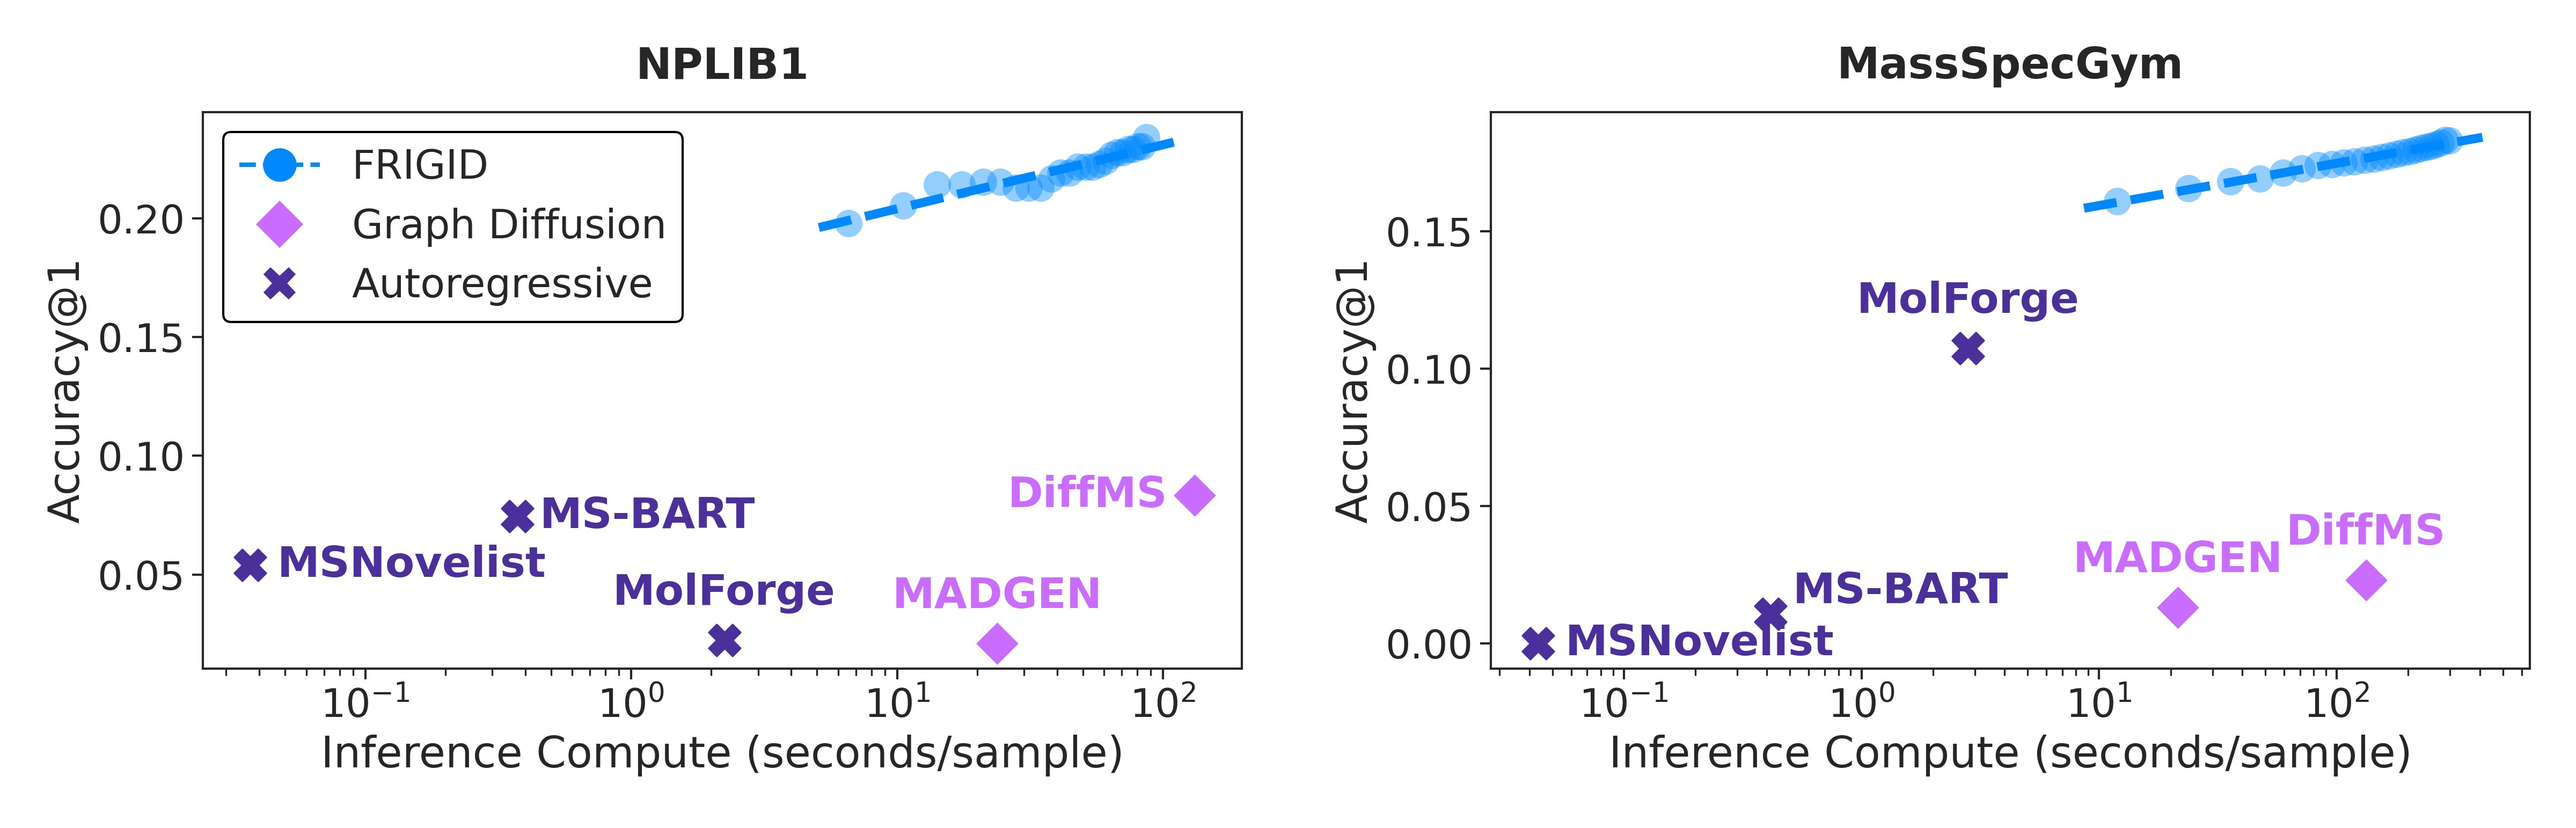
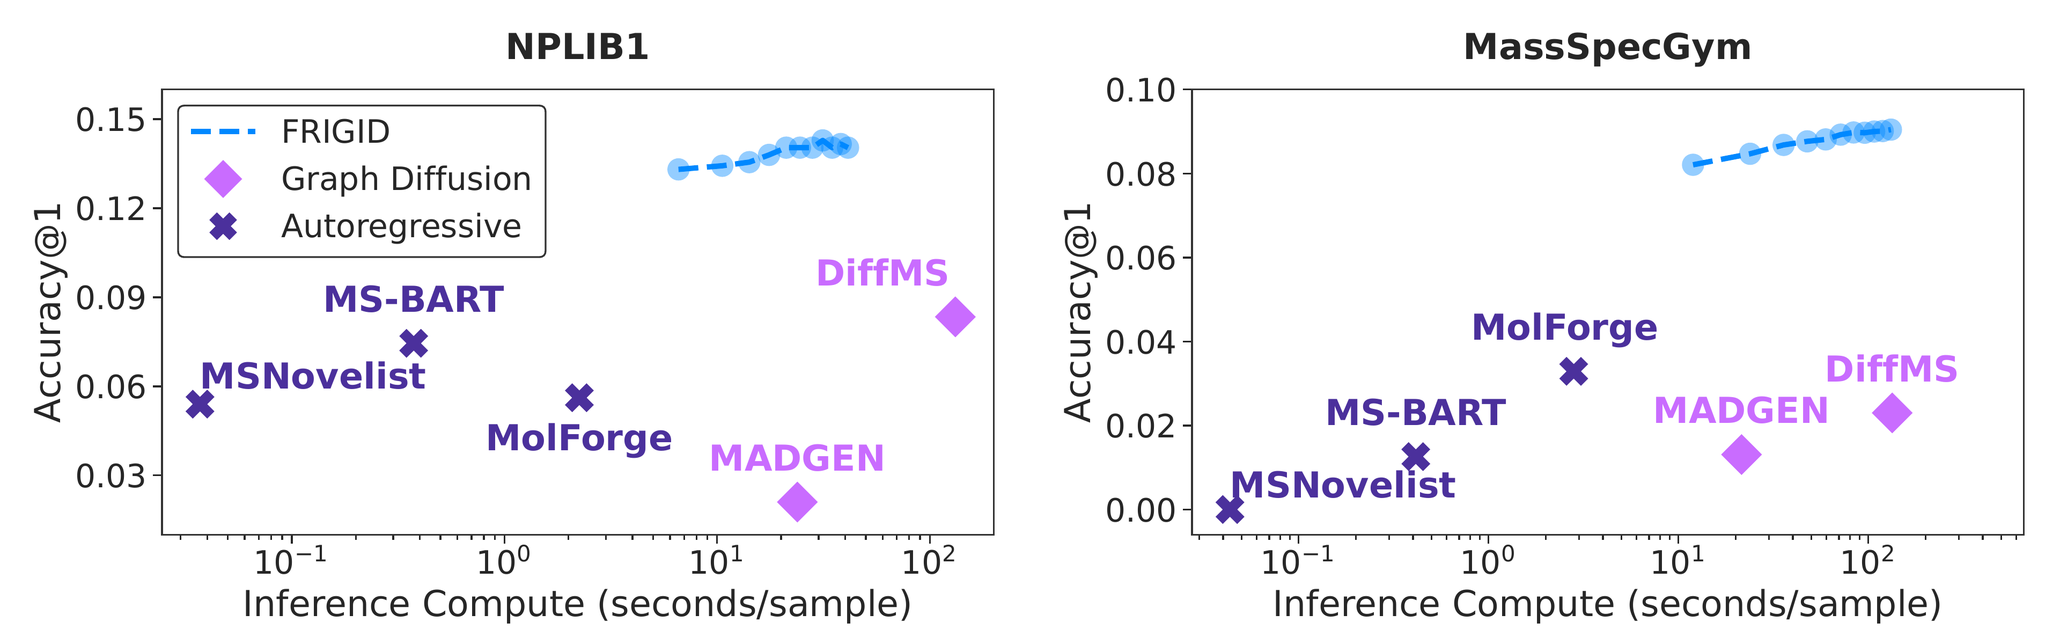
Revise benchmark results and document the MIST encoder update

diff --git a/README.md b/README.md
@@ -1,5 +1,10 @@
 # FRIGID: Scaling Diffusion-Based Molecular Generation from Mass Spectra at Training and Inference Time
 
+> [!IMPORTANT]
+> **Updated MIST encoders and benchmark results.** In the previous release, MIST training for MassSpecGym used synthetic spectra of PubChem molecules selected to match or resemble the chemical formulae of test molecules. Although exact test structures were excluded, this selection still used test-set information.
+>
+> We have replaced the MIST encoders and repeated the FRIGID and MolForge evaluations using MIST 2M-aug on NPLIB1 and MIST 4M-aug on MassSpecGym. These encoders are trained on the respective experimental training splits, augmented with GLACIER spectra for 2 million sampled PubChem molecules and the official 4 million MassSpecGym molecules. The revised results supersede those previously reported; both are presented [below](#results). The checkpoints and complete training code are available in [coleygroup/MIST](https://github.com/coleygroup/MIST).
+
 This is the codebase for our preprint [FRIGID: Scaling Diffusion-Based Molecular Generation from Mass Spectra at Training and Inference Time](https://arxiv.org/abs/2604.16648). **FRIGID** is a diffusion language model (DLM) framework for *de novo* structural elucidation from tandem mass spectra (MS/MS). Given an observed spectrum, FRIGID generates molecular structures as SAFE sequences conditioned on intermediate fingerprint representations and chemical formulae, with optional iterative refinement guided by a forward fragmentation model (ICEBERG).
 
 <p align="center">
@@ -22,9 +27,9 @@ FRIGID addresses two key limitations of prior work: poor scalability at training
 
 1. **FRIGID-base**: A masked diffusion language model (MDLM) that generates SAFE molecular strings conditioned on predicted Morgan fingerprints (via MIST) and chemical formulae (via cross-attention). Trained on up to 230 million unlabeled structures, FRIGID-base achieves strong results through pretraining-scale improvements alone.
 
-2. **ICEBERG-guided inference-time scaling**: A cycle-consistent refinement pipeline that uses ICEBERG (a forward fragmentation model) to simulate spectra of generated candidates, identify hallucinated fragments, and iteratively remask and re-denoise inconsistent substructures. This yields a clear log-linear relationship between inference compute and identification accuracy.
+2. **ICEBERG-guided inference-time scaling**: A cycle-consistent refinement pipeline that uses ICEBERG (a forward fragmentation model) to simulate spectra of generated candidates, identify hallucinated fragments, and iteratively remask and re-denoise inconsistent substructures. Additional refinement rounds improve identification accuracy on both benchmarks.
 
-3. **State-of-the-art results** on NPLIB1 and MassSpecGym benchmarks, more than doubling the Top-1 accuracy of prior methods on NPLIB1 and surpassing 15% Top-1 accuracy on MassSpecGym with inference-time scaling.
+3. **Benchmark performance**: With the revised MIST encoders and 10 rounds of refinement, FRIGID reaches 14.16% Top-1 accuracy on NPLIB1 and 9.05% on MassSpecGym, compared with 13.31% and 8.21% for FRIGID-base.
 
 ---
 
@@ -60,24 +65,54 @@ After initial generation, FRIGID applies iterative spectrum-structure cycle-cons
 
 ## Results
 
-Performance on NPLIB1 and MassSpecGym (known chemical formula setting):
+Performance in the known chemical formula setting. FRIGID and our MolForge reimplementation use MIST 2M-aug on NPLIB1 and MIST 4M-aug on MassSpecGym. FRIGID-base denotes initial generation; FRIGID includes 10 rounds of ICEBERG-guided refinement.
 
 <p align="center">
-  <img src="assets/fig3_inference_scaling.png" width="780">
+  <img src="assets/fig3_inference_scaling.png" width="1000" alt="Revised Top-1 accuracy versus inference time on NPLIB1 and MassSpecGym">
   <br>
-  <em>Top-1 accuracy vs. inference compute on NPLIB1 (left) and MassSpecGym (right). FRIGID exhibits clear log-linear scaling across refinement rounds.</em>
+  <em>Top-1 accuracy versus inference time on NPLIB1 (left) and MassSpecGym (right), using the revised MIST encoders. The blue dashed curves trace initial generation through 10 rounds of refinement.</em>
 </p>
 
-| Model | NPLIB1 Top-1 Acc | NPLIB1 Top-10 Acc | MSG Top-1 Acc | MSG Top-10 Acc |
-|---|---|---|---|---|
-| MIST + MSNovelist | 5.40% | 11.04% | 0.00% | 0.00% |
-| MS-BART | 7.45% | 10.99% | 1.07% | 1.11% |
-| DiffMS | 8.34% | 15.44% | 2.30% | 4.25% |
-| MIST + MolForge | 2.24% | 5.11% | 10.73% | 14.48% |
-| **FRIGID-base (ours)** | **19.80%** | **24.41%** | **16.09%** | **18.19%** |
-| **FRIGID (ours)** | **25.03%** | **33.37%** | **18.29%** | **22.00%** |
+The tables report the revised results alongside the earlier manuscript values. Rows marked *previous* are retained for transparency and shown with strikethrough; they are superseded by the revised comparison. **Bold** indicates the best value among current results. † denotes our MolForge reimplementation.
 
-FRIGID is also **20× faster** than DiffMS at inference (6.58 s/spectrum vs. 131.2 s/spectrum on a single NVIDIA 6000 Ada GPU), enabling practical large-scale inference-time scaling.
+### NPLIB1
+
+| Model | Top-1 Acc ↑ | Top-1 MCES ↓ | Top-1 Tanimoto ↑ | Top-10 Acc ↑ | Top-10 MCES ↓ | Top-10 Tanimoto ↑ |
+|---|---:|---:|---:|---:|---:|---:|
+| Spec2Mol | 0.00% | 48.57 | 0.12 | 0.00% | 17.58 | 0.16 |
+| MADGEN | 2.10% | 20.56 | 0.22 | 2.39% | 12.69 | 0.27 |
+| MIST + Neuraldecipher | 2.32% | 10.26 | 0.35 | 6.11% | 8.53 | 0.43 |
+| MIST + MolForge† | 5.62% | 20.72 | 0.43 | 11.36% | 10.55 | 0.52 |
+| *MIST + MolForge† (previous)* | ~~2.24%~~ | ~~14.16~~ | ~~0.40~~ | ~~5.11%~~ | ~~10.96~~ | ~~0.47~~ |
+| MIST + MSNovelist | 5.40% | 13.10 | 0.34 | 11.04% | 8.57 | 0.44 |
+| MS-BART | 7.45% | 9.66 | 0.44 | 10.99% | 8.31 | 0.51 |
+| DiffMS | 8.34% | 10.46 | 0.35 | 15.44% | 8.54 | 0.47 |
+| **FRIGID-base** | 13.31% | 7.58 | 0.50 | 20.15% | 6.16 | 0.56 |
+| *FRIGID-base (previous)* | ~~19.80%~~ | ~~7.88~~ | ~~0.54~~ | ~~24.41%~~ | ~~6.20~~ | ~~0.61~~ |
+| **FRIGID** | **14.16%** | **7.16** | **0.51** | **25.27%** | **5.79** | **0.58** |
+| *FRIGID (previous)* | ~~25.03%~~ | ~~7.10~~ | ~~0.58~~ | ~~33.37%~~ | ~~5.56~~ | ~~0.64~~ |
+
+### MassSpecGym
+
+| Model | Top-1 Acc ↑ | Top-1 MCES ↓ | Top-1 Tanimoto ↑ | Top-10 Acc ↑ | Top-10 MCES ↓ | Top-10 Tanimoto ↑ |
+|---|---:|---:|---:|---:|---:|---:|
+| MIST + MSNovelist | 0.00% | 39.84 | 0.06 | 0.00% | 18.83 | 0.15 |
+| Spec2Mol | 0.00% | 36.78 | 0.12 | 0.00% | 36.02 | 0.16 |
+| MIST + Neuraldecipher | 0.00% | 22.93 | 0.14 | 0.00% | 21.76 | 0.16 |
+| MADGEN | 1.31% | 27.47 | 0.20 | 1.54% | 16.84 | 0.26 |
+| MS-BART | 1.26% | 16.47 | 0.23 | 1.28% | 15.12 | 0.28 |
+| DiffMS | 2.30% | 13.96 | 0.28 | 4.25% | 11.68 | 0.39 |
+| FOAM (DiffMS + PubChem) | 1.50% | **12.21** | 0.35 | 10.28% | **6.06** | **0.53** |
+| MIST + MolForge† | 3.29% | 31.77 | 0.31 | 5.65% | 16.67 | 0.40 |
+| *MIST + MolForge† (previous)* | ~~10.73%~~ | ~~22.15~~ | ~~0.37~~ | ~~14.48%~~ | ~~17.88~~ | ~~0.41~~ |
+| **FRIGID-base** | 8.21% | 13.16 | 0.38 | 9.82% | 11.65 | 0.43 |
+| *FRIGID-base (previous)* | ~~16.09%~~ | ~~15.02~~ | ~~0.41~~ | ~~18.19%~~ | ~~11.95~~ | ~~0.46~~ |
+| **FRIGID** | **9.05%** | 12.60 | **0.39** | **12.23%** | 11.41 | 0.43 |
+| *FRIGID (previous)* | ~~18.29%~~ | ~~13.49~~ | ~~0.43~~ | ~~22.00%~~ | ~~11.65~~ | ~~0.47~~ |
+
+MS-BART accuracies on MassSpecGym use 2D InChIKey matching. The previous MassSpecGym MolForge results used MIST vDiffMS at inference batch size 1. The paper's appendices, “MIST Encoders and MolForge Evaluation” and “MIST Training,” describe the encoder changes and report the FRIGID comparison between manuscript versions.
+
+On NPLIB1, **FRIGID-base is 20× faster than DiffMS** (6.58 versus 131.2 seconds per spectrum on a single NVIDIA 6000 Ada GPU). FRIGID with 10 refinement rounds takes 41.3 seconds per spectrum.
 
 ---
 
@@ -240,12 +275,12 @@ python scripts/spec2mol_scaling.py \
     --dlm-checkpoint checkpoints/frigid_base.ckpt \
     --iceberg-gen-ckpt checkpoints/iceberg/dag_gen.ckpt \
     --iceberg-inten-ckpt checkpoints/iceberg/dag_inten.ckpt \
-    --num-rounds 10 \
+    --num-rounds 11 \
     --batch-size 128
 ```
 
 Key scaling parameters:
-- `--num-rounds`: number of refinement rounds R (default: 10; paper uses up to 25)
+- `--num-rounds`: total generation rounds, including initial generation; use 11 for the 10 refinement rounds reported above
 - `--batch-size`: candidates generated per round B (default: 128)
 - The script also accepts `--top-k` (top-M candidates selected per round) and `--num-renoised` (N masked variants per candidate)
 
@@ -255,12 +290,12 @@ Key scaling parameters:
 
 ### FRIGID-base MDLM
 
-The decoder is a 12-layer BERT Transformer (hidden size 768, 12 heads, FFN dimension 3072) modified with cross-attention sublayers in each block:
+The model evaluated in the paper uses a 12-layer BERT Transformer (hidden size 896, 14 heads, FFN dimension 3072) with cross-attention sublayers in each block:
 
 | Component | Details |
 |---|---|
-| Backbone | BERT, 12 layers, d=768, H=12 |
-| Total parameters | 182.2M |
+| Backbone | BERT, 12 layers, d=896, H=14 |
+| Total parameters | 247.0M |
 | Vocabulary | BPE-tokenized SAFE, \|V\|=1880 |
 | Max token length | 256 |
 | Formula encoder | Per-element count embedding (30 elements) |
